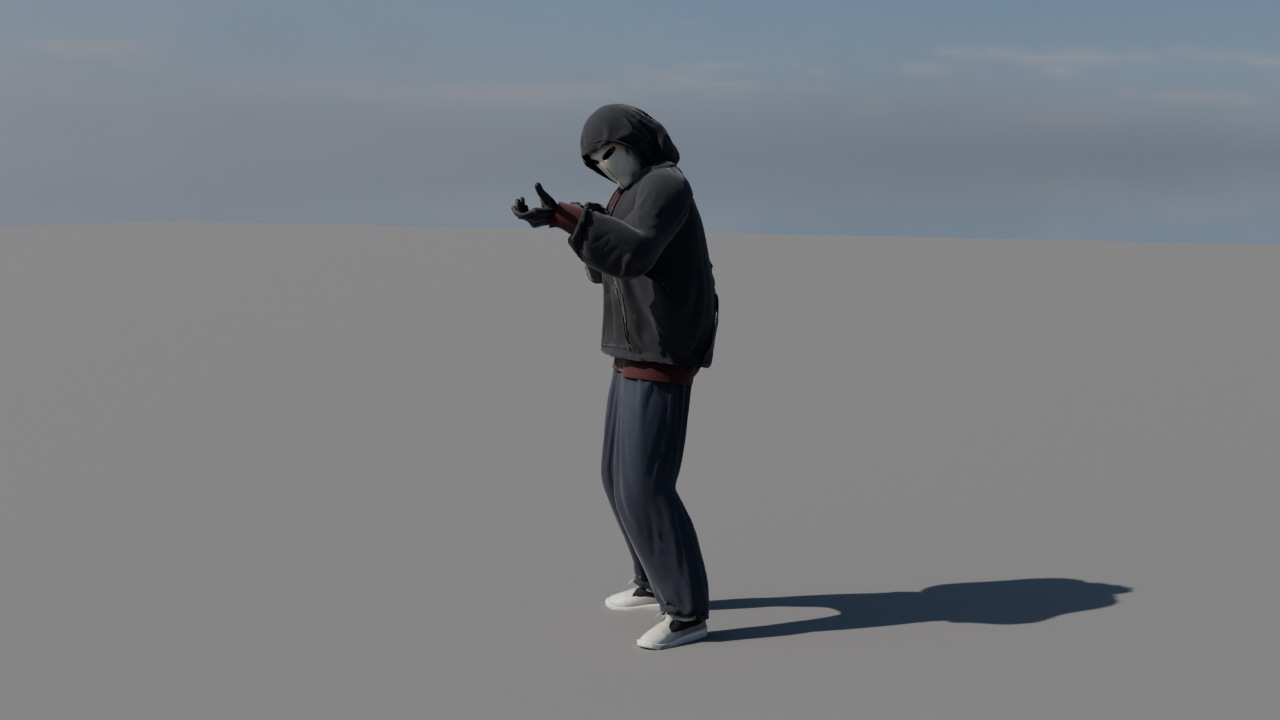
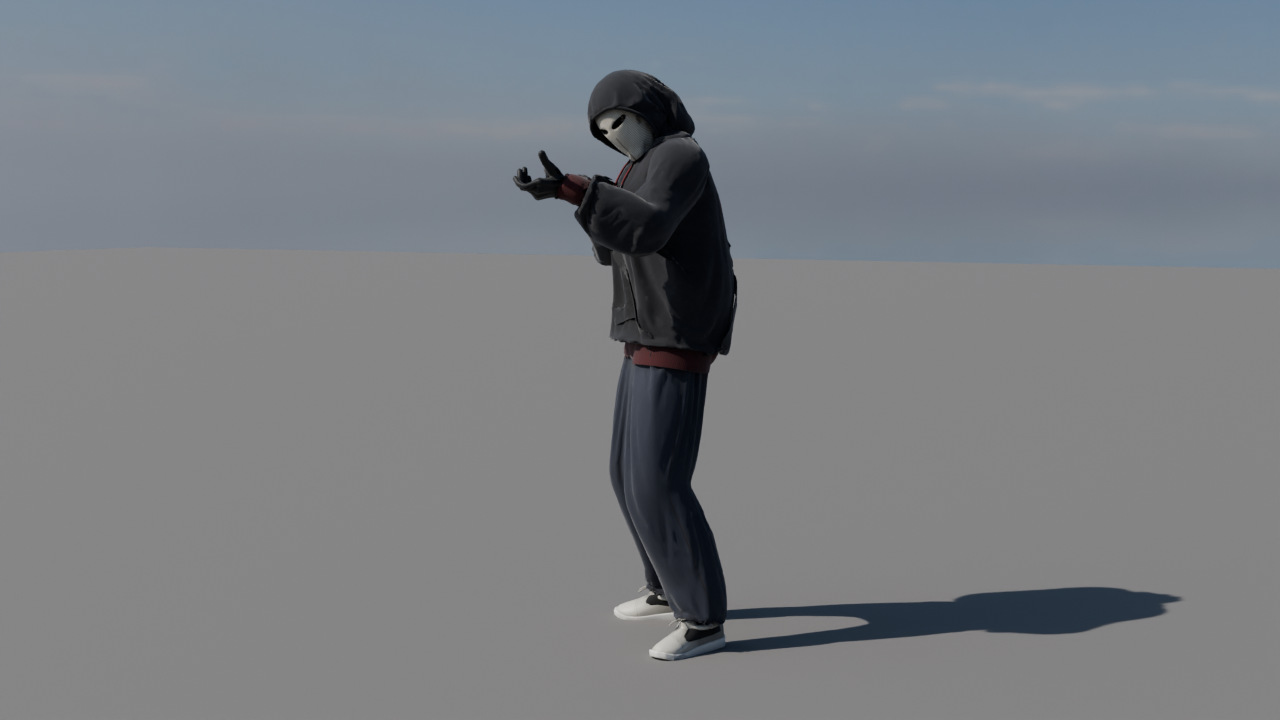
Goons: proof in Unreal (chars-goons-1..3: jog, reload, hit, death, aimed idle), previews, CHARACTERS.md (size against the brief, adding an outfit, animation assets, known weaknesses), progress
Claude-Session: https://claude.ai/code/session_01HkcHdD7NbyxwnFfuuSpZY4

Changed region(s): [[0.375, 0.0917, 0.9375, 0.9167]]

diff --git a/docs/unreal/CHARACTERS.md b/docs/unreal/CHARACTERS.md
@@ -120,9 +120,10 @@ closed shoulder caps are visible from this camera; the first-person camera never
 
 Three skinned meshes on `SK_Mannequin`, one man in three outfits (briefs `docs/unreal/spec/assets/characters.json`
 `goon_hoodie`, `goon_puffer`, `goon_tracksuit`): `SK_Goon_Hoodie`, `SK_Goon_Puffer`, `SK_Goon_Tracksuit`
-(`art/out/glb/`, never committed: they are skinned on Epic's skeleton). Facing -Y in Blender (Unreal +Y... the
-mannequin's own facing, so the template clips play as they are), origin on the ground between the feet, A-pose
-(the mannequin's rest).
+(`art/out/glb/`, never committed: they are skinned on Epic's skeleton). Facing -Y in Blender, which is the
+mannequin's own facing (Unreal +Y), so the template clips play as they are; origin on the ground between the feet;
+A-pose (the mannequin's rest). 67,043 / 74,049 / 68,961 triangles, 89 joints (the whole SK_Mannequin hierarchy),
+at most 6 influences per vertex.
 
     venv/bin/python art/blender/build.py build goons [--only hoodie,puffer,tracksuit] [--bake] [--export] [--preview]
     MI_PREVIEWS=goons_lineup,goons_hoodie_hero,goons_detail,goons_poses,goons_wire     pictures to render
@@ -140,3 +141,94 @@ mannequin's own facing, so the template clips play as they are), origin on the g
 | Weights | Nearest-surface transfer from the mannequin (`char.transfer_weights`) and smoothing (more for loose pieces); gloves per finger (as SK_RuleArms); sneakers from foot/ball/calf; rib cuffs from the forearm bones only (they must not follow the wrist bend); beanie, cap and glasses rigid on `head`. Then `goons.layer_weights`: every vertex of a covered layer within a few cm of its cover takes the cover's weights (mask under hood/collar/bandana, trousers under the waistband and jacket hem, glove tops under the cuffs; trouser hems resting on the sneakers take the sneakers'), so layers move as one. At most 6 influences |
 | Textures | Two unique sets per outfit (`_goons_tex.py`, per texel from the baked rest position): `Goon<Outfit>_Cloth` 4096 (garments, gloves, sneakers) and `Goon<Outfit>_Head` 2048 (mask, hats, glasses, bandana, sling, cords, zips), BC / N (OpenGL) / ORM. Fabric is drawn at true size in body-axis coordinates (wales down a sleeve whatever the UV island's angle): rib knit 2.6 mm wales, jersey with heathering and pilling where arms rub, denim twill with slub warp streaks, faded crests, whiskers and knee honeycombs, tan-stitched seams and back pockets, nylon ripstop with sheen, tricot courses, pebble-grain leather with creases, sneaker leather with toe-flex creases, panel stitching, scuffs and sole grime; dust at hems, cuffs and knees; prints and panels in body space (crew V, stripes, puffer yoke and shoulder caps, the mask's black eye slits, mouth seam, breath stain) |
 | Slots | `M_Goon<Outfit>_Cloth`, `M_Goon<Outfit>_Head` |
+
+| Clean-up before export | `goons.unfold`: draped and decimated cloth has folded-over triangles (a face pointing away from its corners' smooth normals); Cycles hides them, Unreal draws them as dark jagged patches. Their vertices are relaxed (Laplacian steps, topology and UVs kept: 575 inverted corners of the hoodie down to 58), what is left are real creases (turned hems, rolled edges) whose normals are split. Unweighted vertices take their neighbour's weights (the glTF exporter would otherwise need a neutral bone it cannot place) |
+| Texture gaps | `_goons_tex.fill_gaps`: every texel outside the UV islands is filled from the islands by a masked mip pyramid (pull-push), so no mip mixes the empty background into the cloth |
+
+### Size against the brief
+
+Built to the skeleton, not to the brief's joint heights (the clips depend on the skeleton). Mannequin rest against the
+brief: shoulder joints 1.436 m (brief 1.42), 0.38 m apart (0.40); hip joints 0.935 (0.93), 0.20 apart (0.19); knees
+0.503 (0.50); ankles 0.082 (0.085); neck base 1.528 (1.50); upper arm 0.278 (0.28), forearm 0.272 (0.27), thigh
+0.433 (0.43), shin 0.423 (0.415). The rest A-pose holds the arms higher than the brief's (elbows 1.21 against 1.14,
+wrists 1.05 against 0.87): a pose difference, not a length one. The top of the hood is 1.818 m and of the mask 1.81 m
+(brief: 1.78 over the hood, 1.75 in sneakers) because the mannequin's head is larger. **Uniform scale for the briefed
+height: 0.98** on the Goon's skeletal mesh component (hood top 1.78 m; shoulders then 1.41 m, hips 0.92 m); 0.967
+would match the 1.75 m figure but sinks every joint 3 to 5 cm below the brief. Hit volumes (head sphere 0.155 m,
+body capsule 0.27 m) follow the bones, so they scale with it.
+
+### How to add an outfit
+
+1. A builder `def <name>_outfit(man, parts, shoes)` in `goons.py` (copy `tracksuit_outfit`): trousers with
+   `GC.trousers(...)`, the top with `GC.hoodie_shell(...)` (ease, hang, sleeve ease, hem, neck, cuff, bending:
+   stiffer for padded fabric), bands with `GC.bands_for`, collars with `collar`, zips with `zipper`, head pieces from
+   `_goons_head.py`, each wrapped in `cached("<Piece>", "<version>", col, fn)` (bump the version to re-drape) and
+   added as `(name, tag(ob, kind, colour, piece), "cloth" | "head", region)`; `region` picks the weight rule (None =
+   nearest surface, `("cuff", side)`, `"head"` rigid, `("foot", side)`, `("glove", side)`).
+2. Register it in `BUILDERS` and `OUTFITS`; new fabric kinds go in `K` (goons.py and `_goons_tex.py`) with a branch in
+   `_goons_tex.texels`, prints and panels in `_goons_tex.regions` (body-space tests on position and `mi_piece`).
+3. `build.py build goons --only <name> --bake --export --preview`, then the layer test: pose with the clips and look
+   for the inner layer coming through (scratch `posetest.py` pattern: covered inner vertices against the outer
+   surface per pose), fix with `LAYERS` (which layers share weights) or more ease.
+4. Unreal: `tools/box/chars/goons-pack.sh pack` (local) and `unpack <url>` (box), `mi_chars.setup_goons()`.
+
+### Animation assets on SK_Mannequin and what each is for
+
+All under `/Game/Characters/Mannequins/Anims/` (copied from the template; `mi_chars.ANIMS` names the ones used here).
+
+| Asset | Use for a Goon |
+|---|---|
+| `Rifle/MF_Rifle_Idle_ADS` (8 s) | Aimed idle, the SMG shouldered: holding a position, firing stance between bursts |
+| `Rifle/Jog/MF_Rifle_Jog_Fwd` (1.53 s) and `_Bwd`, `_Left`, `_Right`, `_Fwd_Left`, `_Fwd_Right`, `_Bwd_Left`, `_Bwd_Right` | Moving with the gun up (8-way blend space on velocity against facing); `Rifle/Walk` the same set for patrols |
+| `Rifle/MM_Rifle_Fire` | Fire additive / montage on the upper body |
+| `Rifle/MM_Rifle_Reload` (2.2 s) | Reload montage (the SMG magazine swap) |
+| `Rifle/MM_Rifle_Equip`, `MM_Rifle_DryFire` | Raising the gun when alerted; empty-gun click |
+| `Rifle/HitReact/MM_HitReact_Front_Lgt_01..04`, `_Front_Med_01..02`, `_Front_Hvy_01` (0.8 s), `_Back_Med_01` | Flinches by hit weight and side (head hits: heavy) |
+| `Rifle/AIM` aim offsets | Pitch and yaw of the aim at the player |
+| `Rifle/Jump` | Vaulting / dropping off a ledge |
+| `Death/MM_Death_Front_01..03`, `_Back_01`, `_Left_01`, `_Right_01` (about 1.1 s) | Death by the direction of the killing shot; the body then stays (up to 6) |
+| `Pistol/*` | The same set one-handed: the pipe Goon's idle and moves before the swing |
+| `Unarmed/MM_Attack_01..03`, charged attack, dash | Pipe swings and lunges (the overhead right-arm swing of the brief) |
+
+### Proof in Unreal (2026-11-23)
+
+`/Game/Characters/Goons/SK_Goon_Hoodie`, `_Puffer`, `_Tracksuit` imported on `/Game/Characters/Mannequins/Meshes/SK_Mannequin`
+(no new skeleton: `mi_chars.setup_goons` reports the skeleton path), 18 textures (`TC_NORMALMAP` with the green channel
+flipped, `TC_MASKS`), six materials `M_Goon<Outfit>_Cloth` / `_Head`, slots assigned by name.
+
+![goons 1](shots/chars-goons-1.jpg)
+
+`chars-goons-1.jpg`: the hoodie Goon in MF_Rifle_Jog_Fwd (0.35 s), MM_Rifle_Reload (1.3 s), MM_HitReact_Front_Hvy_01
+(0.22 s) and MM_Death_Front_01 (1.05 s). The garments follow the limbs; the mask stays inside the hood, the gloves
+inside the cuffs, the jeans hems on the sneakers; the crew V shows on the back of the falling one.
+
+![goons 2](shots/chars-goons-2.jpg)
+
+`chars-goons-2.jpg`: puffer, hoodie and tracksuit in MF_Rifle_Idle_ADS (2 s).
+
+![goons 3](shots/chars-goons-3.jpg)
+
+`chars-goons-3.jpg`: the hoodie Goon's hood, mask and drawstrings in the reload, about 1 m away.
+
+Two rounds of fixes after looking: (1) sawtooth shading along the cloth UV islands (a 1K texture AO upscaled) became a
+per-vertex AO, the pilling was made quieter, nylon and tricot rougher; (2) inverted cloth triangles relaxed and crease
+normals split (`unfold`), texture gaps filled (`fill_gaps`). Still visible at 1 m (picture 3): dark stepped patches in
+the hood's deepest folds. Ruled out by tests in the editor: textures (a flat grey material shows them too), the
+normal map, back faces (two-sided), shadow bias, virtual shadow maps (off), ray-traced shadows. Next suspects: the
+draped cloth's sub-centimetre pleats left after decimation (Cycles smooths them, the raster does not), and the
+skeletal mesh build settings at import (recompute normals / degenerate removal, not reachable from Python in 5.9:
+set by hand in the asset's LOD build settings to test).
+
+### Known weaknesses of the Goons
+
+- Dark stepped patches in the deepest hood and hoodie folds in Unreal close-ups (above); invisible at 4 m and beyond.
+- The puffer's quilting follows the body's chest and stomach too closely (it reads as a muscle suit at some angles):
+  the shell needs a boxier start shape before the loft.
+- Tracksuit sleeve stripes are broken into patches where the baggy sleeve leaves the arm's outer line (the stripe is
+  placed by angle round the arm axis); it should be placed in the sleeve's own pattern space.
+- UV islands of the draped cloth are many and small (smart projection at 72 deg): fine at game distances, but the
+  texel density per island is uneven and the atlas is 44 % covered before the gap fill.
+- The mannequin's head shape gives the mask a long smooth face; there is no nose or brow under the knit.
+- The sneaker upper is a smooth form with stitching in the texture only; laces are mostly hidden under the hems.
+- No cloth simulation at runtime: folds are baked in the A-pose and only skinned (expected for a dozen enemies).
+- The sling is a closed loop with no buckle or pipe attachment point (SM_Weapon_GoonPipe is placed by the game).

diff --git a/art/blender/PROGRESS.md b/art/blender/PROGRESS.md
@@ -464,17 +464,24 @@ previews goons_lineup/_hoodie_hero/_detail/_poses/_wire, CHARACTERS.md.
 
 ## Status
 - [x] goons.py: shared man, kit, three outfits draped in the A-pose (drape and UV caches in art/out/goons);
-      67k / 74k / 69k triangles; weights (transfer, smoothing, per-finger gloves, forearm-only cuffs, rigid hats,
-      LAYERS sharing); GLBs exported (art/out/glb/SK_Goon_*.glb)
-- [x] round 1 in Unreal (scratch project, editor pid on the box in /project/ue/logs/chars/editor.pid): imported on
-      SK_Mannequin with the 4K/2K sets; hoodie jog / reload / hit / death, puffer and tracksuit in the aimed idle.
-      Faults found: sawtooth shading at UV island borders (1K AO bake upscaled), blotchy pilling, nylon and tricot
-      too glossy -> per-vertex AO, quieter pilling, rougher sheen fabrics
-- [ ] round 2: re-bake (running), re-import, shots chars-goons-1..3, previews
+      67,043 / 74,049 / 68,961 triangles; weights (transfer, smoothing, per-finger gloves, forearm-only cuffs, rigid
+      hats, LAYERS sharing), unfold pass, GLBs in art/out/glb/SK_Goon_*.glb
+- [x] six sets: GoonHoodie/Puffer/Tracksuit_Cloth (4096) and _Head (2048), BC/N/ORM, per-vertex AO, gaps filled
+- [x] Unreal (scratch project /project/ue/chars): imported on SK_Mannequin, materials, shots chars-goons-1..3 after two
+      fix rounds; editor stopped by its pid
+- [x] previews goons_lineup, _hoodie_hero, _detail, _poses, _wire (11 renders); CHARACTERS.md, README row
+
+## State at hand-off: task complete
+Known weaknesses (CHARACTERS.md has the list): dark stepped patches in the deepest hood folds in Unreal close-ups
+(textures, normal map, back faces, shadow bias, VSM and RT shadows ruled out); puffer quilting follows the chest too
+closely; tracksuit sleeve stripes broken into patches; many small UV islands; long smooth mask face (mannequin head).
 
 ## Exact next step
-`build.py build goons --bake --export --preview` (running), then `tools/box/chars/goons-pack.sh pack`, upload,
-`goons-pack.sh unpack <url>` on the box, `mi_chars.setup_goons()`, `goon_stage(...)`, shots.
+In the editor, open SK_Goon_Hoodie's LOD 0 build settings, turn off Recompute Normals (and Remove Degenerates),
+rebuild, and look at the hood at 1 m (`/tmp/goons_shots.sh` pattern, shot 3). If the patches stay, raise the hood's
+budget (BUDGET['Hood'] 6500 -> 12000) and smooth the drape more before decimation (cached piece version bump), then
+`build.py build goons --export` (no re-bake needed while the UV cache key holds; a geometry change before the unwrap
+re-unwraps: then also --bake).
 
 ---------------------------------------------------------------------------------------------------------------
 # Structures, continued after the machine restart (assets/structures.py), level-structure artist
